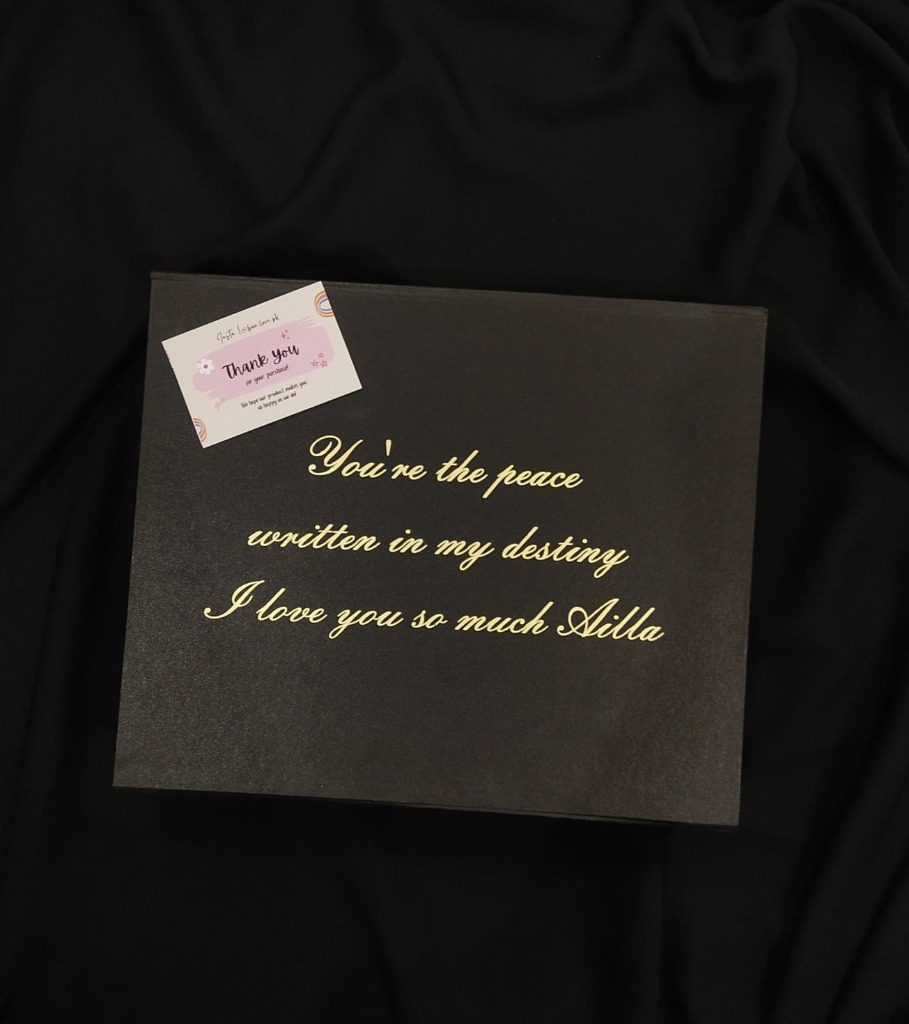
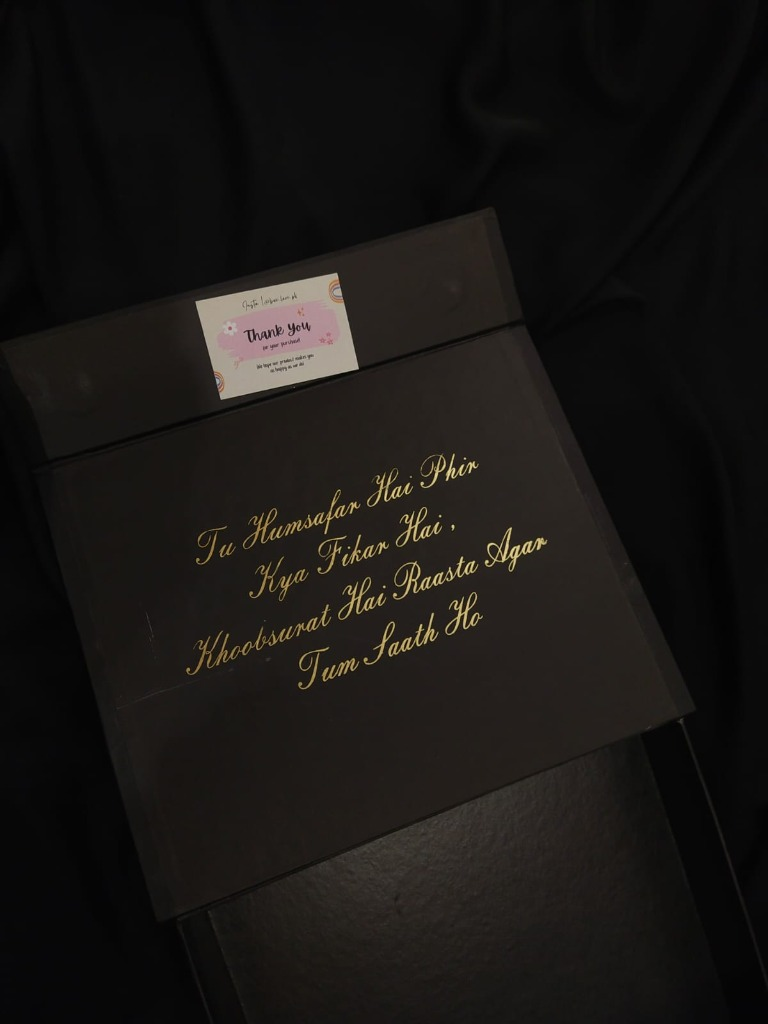
Replace repeating review images 8 and 9 with new custom box photos and update text

Changed region(s): [[0.125, 0.2188, 0.8438, 0.7812], [0.3438, 0.5938, 0.875, 0.9375]]

diff --git a/src/app/page.tsx b/src/app/page.tsx
@@ -1418,13 +1418,13 @@ export default function Home() {
             },
             {
               name: "H******",
-              text: "Gold lid handwriting is very neat. The ribbon bow decoration is tied perfectly. Worth ordering from box.love.pk!",
+              text: "Happy Birthday inside hanging banner with black ribbons order kiya tha surprise box ke liye. Execution is top class and lights make it look magical!",
               rating: 5,
               img: "/rev8.jpg",
             },
             {
               name: "R******",
-              text: "Destiny quote writing lid stands out beautiful. The luxury black velvet box touch feels super premium.",
+              text: "Inside box lid gold writing for Humsafar quote was absolutely perfect and emotional! Ink quality was premium. Thank you box.love.pk!",
               rating: 5,
               img: "/rev9.jpg",
             },